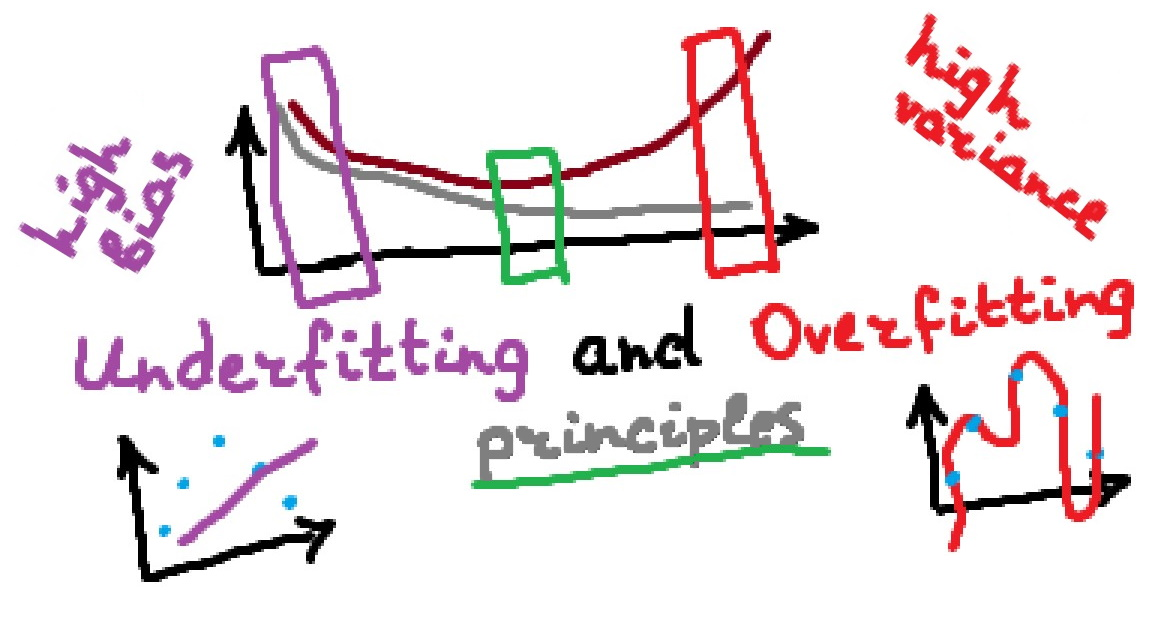
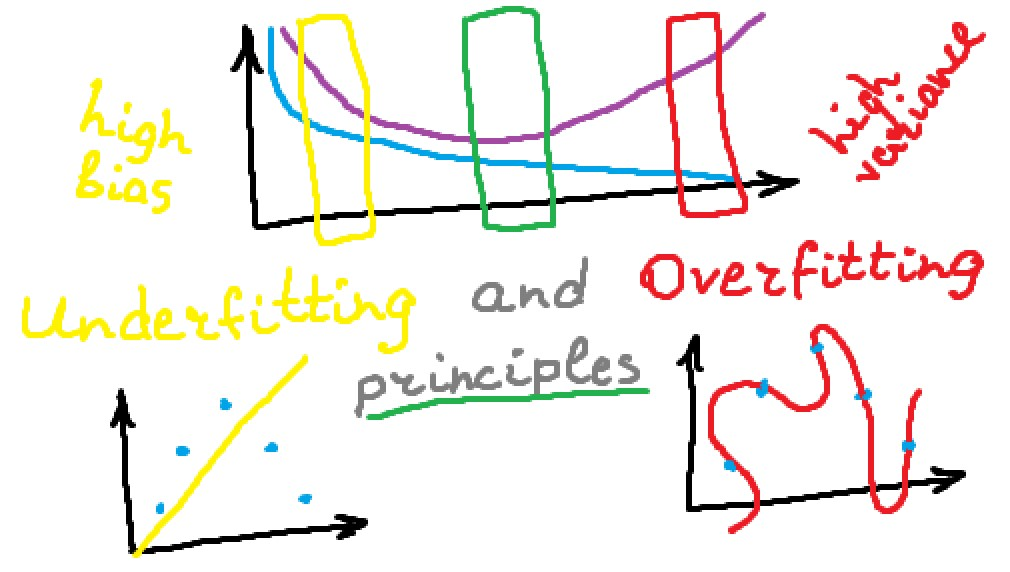
Update to a final version

Changed region(s): [[0.0, 0.0, 0.9822, 0.9808]]

diff --git a/principles.md b/principles.md
@@ -1,13 +1,13 @@
 # Overfitting and Underfitting principles
 ## Understand what it is and why you should use particular techniques to prevent this
 
-A lot of articles have been written about overfitting, but almost all of them *are simply a list of tools*. "How to handle overfitting - top 10 tools" or "best techniques to prevent overfitting". *It's like being shown nails without explaining how to hammer them*. It can be very confusing for people who are trying to figure out how overfitting works. Also, these articles often do not consider underfitting, as if it does not exist at all.
+A lot of articles have been written about overfitting, but almost all of them *are simply a list of tools*. "Top 10 tools to fight overfitting you should know" or "Best techniques to combat overfitting". *It's like being shown nails without explaining how to hammer them*. It can be very confusing for people who are trying to figure out how overfitting works. Also, these articles often do not consider underfitting, as if it does not exist at all.
 
 In this article, I would like to list the **basic principles** (exactly *principles*) for improving the quality of your model and, accordingly, preventing underfitting and overfitting on a particular example. This is a very general issue that can apply to all algorithms and models, so it is very difficult to fully describe it. But I want to try to give you an *understanding* of why underfitting and overfitting occur and why one or another particular technique should be used.
 
 ## Underfitting and Overfitting and Bias/Variance Trade-off
 
-Although I'm not describing all the concepts you need to know here (for example, *quality metrics* or *cross-validation*), I think it's important to explain to you what underfitting/overfitting is.
+Although I'm not describing all the concepts you need to know here (for example, *quality metrics* or *cross-validation*), I think it's important to explain to you (or just remind you) what underfitting/overfitting is.
 
 To figure this out, let's create some dataset, split it into train and test (I will not use a validation set in this example to simplify it, but I will tell about it later), and then train three models on it - simple, good and complex. All code is available in this [GitLab repo](https://gitlab.com/Winston-90/underfitting_vs_overfitting).
 
@@ -35,7 +35,7 @@ These are two extremes of the same problem and the optimal solution always lies 
 |:--:|
 | <b>Good model. The cubic model trained on cubic data. Image by Author</b>|
 
-I will not talk much about bias/variance trade-off, you can read the basics [in this article](https://towardsdatascience.com/understanding-the-bias-variance-tradeoff-165e6942b229). But let me briefly mention possible options:
+I will not talk much about bias/variance trade-off (you can read the basics [in this article](https://towardsdatascience.com/understanding-the-bias-variance-tradeoff-165e6942b229)), but let me briefly mention possible options:
 - low bias, low variance - is a good result, just right.
 - low bias, **high variance** - **overfitting** - the algorithm outputs very different predictions for similar data.
 - **high bias**, low variance - **underfitting** - the algorithm outputs similar predictions for similar data, but predictions are wrong (algorithm "miss").
@@ -82,31 +82,31 @@ As we remember:
 - **overfitting** occurs when your model is **too complex** for your data.
 
 Based on this, simple intuition you should keep in mind is:
-- to prevent **underfitting**, you should **complicate** the model.
-- to prevent **overfitting**, you should **simplify** the model.
+- to fix **underfitting**, you should **complicate** the model.
+- to fix **overfitting**, you should **simplify** the model.
 
-In fact, everything that will be listed below is only the consequence of this simple rule. I will try to show why certain actions complicate or simplify the model.
+In fact, everything that will be listed below is only the consequence of this simple rule. I will try to show why certain actions will complicate or simplify the model.
 
 ### More Simple / Complex Model
 
 The easiest way that comes to mind based on the intuition above is to try a more simple or more complex algorithm (model).
 
-To complicate the model, you need to add more parameters (*degrees of freedom*). Sometimes this means to directly try a more powerful model - one that is a priori capable of restoring more complex dependencies (SVM with different kernels instead of logistic regression). If the algorithm is already quite complex (neural network or some ensemble model), you need to add more parameters to it, for example, increase the number of models in boosting. In the context of neural networks, this means adding more layers / more neurons in each layer / more connections between layers / more filters for CNN, and so on.
+To complicate the model, you need to add more parameters (*degrees of freedom*). Sometimes this means to directly try a more powerful model - one that is a priori capable of restoring more complex dependencies (*SVM with different kernels instead of logistic regression*). **If the algorithm is already quite complex** (neural network or some ensemble model), **you need to add more parameters** to it, for example, increase the number of models in boosting. In the context of neural networks, this means adding more layers / more neurons in each layer / more connections between layers / more filters for CNN, and so on.
 
-To simplify the model, you need contrariwise to reduce the number of parameters. Either completely change the algorithm (try random forest instead of deep neural network), or reduce the number of degrees of freedom. Fewer layers, fewer neurons, and so on.
+To simplify the model, you need contrariwise to reduce the number of parameters. Either completely change the algorithm (*try random forest instead of deep neural network*), or reduce the number of degrees of freedom. Fewer layers, fewer neurons, and so on.
 
 ### More Regularization / Less Regularization
 
-This point is very closely related to the previous one. Regularization is basically an *indirect forced simplification of the model*. The regularization term requires the model to keep parameters values as small as possible, so requires the model to be as simple as possible. Complex models with strong regularization often perform better than initially simple models, so this is a very powerful tool.
+This point is very closely related to the previous one. In fact, **regularization is an indirect and forced simplification of the model**. The regularization term requires the model to keep parameters values as small as possible, so requires the model to be as simple as possible. Complex models with strong regularization often perform better than initially simple models, so this is a very powerful tool.
 
 | ![regularization.jpg](./img/regularization.jpg) |
 |:--:|
-| <b>Good model and complex model with L2 regularization. Image by Author</b>|
+| <b>Good model and complex model with regularization. Image by Author</b>|
 
-More regularization (simplifying the model) means to increase the impact of the *regularization term*. This process is strictly individual - depending on the algorithm, the regularization parameters are different (for example, **to reduce the regularization, the alpha for Ridge regression should be decreased, and C for SVM - increased**). So you should study the parameters of the algorithm and pay attention to whether they should be increased or decreased in a particular situation. There are a lot of such parameters - L1/L2 coefficients for linear regression, C and gamma for SVM, maximum tree depth, and so on. In the context of neural networks, the main regularization methods are:
-- Early stopping
-- Dropout
-- L1 and L2 Regularization
+More regularization (simplifying the model) means increasing the impact of the *regularization term*. This process is strictly individual - depending on the algorithm, the regularization parameters are different (for example, **to reduce the regularization, the alpha for Ridge regression should be decreased, and C for SVM - increased**). So you should study the parameters of the algorithm and pay attention to whether they should be increased or decreased in a particular situation. There are a lot of such parameters - L1/L2 coefficients for linear regression, C and gamma for SVM, maximum tree depth for decision trees, and so on. In the context of neural networks, the main regularization methods are:
+- Early stopping,
+- Dropout,
+- L1 and L2 Regularization.
 
 You can read about them [in this article](https://medium.com/@ODSC/classic-regularization-techniques-in-neural-networks-68bccee03764).
 
@@ -116,18 +116,18 @@ Opposite, in the case when the model needs to be complicated, you should reduce 
 
 This may not be so obvious, but adding new features also complicates the model. Think about it in the context of a *polynomial regression* - adding quadratic features to a dataset allows a linear model to recover quadratic data.
 
-*"Natural" feature obtaining* (if you can call it that) - obtaining new features for existing data is used infrequently, mainly due to the fact that it is very expensive and long. But you can keep in mind that sometimes this can help.
+*Adding new "natural" features* (if you can call it that) - obtaining new features for existing data is used infrequently, mainly due to the fact that it is very expensive and long. But you can keep in mind that sometimes this can help.
 
-But artificial obtaining of additional features from existing ones (the so-called *feature engineering*) is used quite often for classical machine learning models. There are as many examples of such transformations as you can imagine, but here are the main ones.:
-- polynomial features - from x1, x2 to x1, x2, x1*x2, x1^2, x2^2 (`sklearn.preprocessing.PolynomialFeatures` class)
+But artificial obtaining of additional features from existing ones (the so-called *feature engineering*) is used quite often for classical machine learning models. There are as many examples of such transformations as you can imagine, but here are the main ones:
+- polynomial features - from *x1, x2* to *x1, x2, x1x2, x1^2, x2^2* (`sklearn.preprocessing.PolynomialFeatures` class)
 - log(x), for data with not-normal distribution
 - ln(|x| + 1) for data with heavy right tail
 - transformation of categorical features 
 - other non-linear data transformation (from length and width to area (length*width)) and so on.
 
-If you need to simplify the model, then you should use a smaller quantity of features. First of all, remove all the additional features that you added earlier if you did so. But it may turn out that in the original dataset there are features that do not carry useful information, and sometimes violate the algorithm. Linear models often work worse if some features are dependent - *highly correlated*. In this case, you need to use *feature selection* approaches to select only those features that carry the maximum amount of useful information.
+If you need to simplify the model, then you should use a smaller quantity of features. First of all, remove all the additional features that you added earlier if you did so. But it may turn out that in the original dataset there are features that do not carry useful information, and sometimes cause problems. Linear models often work worse if some features are dependent - *highly correlated*. In this case, you need to use *feature selection* approaches to select only those features that carry the maximum amount of useful information.
 
-It is worthwhile to say that in the context of neural networks, feature engineering makes almost no sense because the network finds dependencies in the data itself. This is actually why deep neural networks can restore such complex dependencies.
+It is worthwhile to say that in the context of neural networks, *feature engineering* and *feature selection* make almost no sense because the network finds dependencies in the data itself. This is actually why deep neural networks can restore such complex dependencies.
 
 ### Why Getting More Data Sometimes Can't Help
 
@@ -141,9 +141,9 @@ A very simple model (degree 1) has remained simple, almost nothing has changed. 
 
 But the complex model (degree 13) has changed for the better. It is still worse than the initially good model (degree 3), but much better than the original one. Why did this happen?
 
-Last time (for the initial dataset), the model was trained on 14 points (*20 (initial dataset size) * 0.7 (train ratio) = 14 data points*). A 13-degree polynomial can perfectly match these data (by analogy, we can draw an ideal straight line (degree = 1) through 2 points, an ideal parabola (degree = 2) through 3 points - and so on). By getting 10 times more data, the size of our train set is now 140 data points. To perfectly match these data, we need a 139-degree polynomial!
+Last time (for the initial dataset), the model was trained on 14 data points (*20 (initial dataset size) * 0.7 (train ratio) = 14*). A 13-degree polynomial can perfectly match these data (by analogy, we can draw an ideal straight line (degree=1) through 2 points, an ideal parabola (degree=2) through 3 points, and so on). By getting 10 times more data, the size of our train set is now 140 data points. To perfectly match these data, we need a 139-degree polynomial!
 
-Note that if we had initially trained a *VERY complex model* (for example, 150-degree polynomial), such an increase in data would not have helped. So get more data is a good way to improve the quality of the model, but it may not help if the model is very very complex.
+Note, that if we had initially trained a *VERY complex model* (for example, 150-degree polynomial), such an increase in data would not have helped. So get more data is a good way to improve the quality of the model, but it may not help if the model is very very complex.
 
 So, the conclusion is - **getting more data can help only with overfitting (not underfitting) and if your model is not TOO complex**. 
 
@@ -153,20 +153,20 @@ In the context of computer vision, getting more data can also mean *[data augmen
 
 Let's summarize everything in one table. 
 
-| ![summary_table.jpg](./img/summary_table.jpg) |
+| ![summary_table.png](./img/summary_table.png) |
 |:--:|
-| <b>Techniques to fight overfitting. Image by Author</b>|
+| <b>Techniques to fight underfitting and overfitting. Image by Author</b>|
 
 Well, better in two.
 
-| ![summary_table_extended.jpg](./img/summary_table_extended.jpg) |
+| ![summary_table_extended.png](./img/summary_table_extended.png) |
 |:--:|
-| <b>Techniques to fight overfitting (extended). Image by Author</b>|
-
-Based on the results of the quality analysis, it is very important to understand exactly where to move and what to pay attention to. Otherwise, you can spend days and weeks of work on improving the part of the model that will not give a large boost in total quality.
-
-You may notice that to eliminate underfitting and overfitting, you need to apply **diametrically opposite actions**. So if you initially "misdiagnosed" your model, you can spend a lot of time and money on empty work (for example, getting new data when in fact you need to complicate the model).
-
-In addition to analyzing the quality of the model, there are many techniques for understanding exactly what needs to be done to improve the model ([error analysis](https://www.analyticsvidhya.com/blog/2021/08/a-quick-guide-to-error-analysis-for-machine-learning-classification-models/), [ceiling analysis](https://www.coursera.org/lecture/machine-learning/ceiling-analysis-what-part-of-the-pipeline-to-work-on-next-LrJbq), etc.). Unfortunately, this topic is beyond the scope of this article.
+| <b>Techniques to fight underfitting and overfitting (extended). Image by Author</b>|
 
 Some tools and techniques have not been covered in this article. For example, I consider **data cleaning** and **cross-validation or hold-out validation** to be common practices in any machine learning project, but they can also be considered as tools to combat overfitting.
+
+You may notice that to eliminate underfitting or overfitting, you need to apply **diametrically opposite actions**. So if you initially "misdiagnosed" your model, you can spend a lot of time and money on empty work (for example, getting new data when in fact you need to complicate the model). That's why it is so important - hours of analysis can save your days and weeks of work.
+
+In addition to the usual analysis of the model quality (train/test errors), there are many techniques for understanding exactly what needs to be done to improve the model ([error analysis](https://www.analyticsvidhya.com/blog/2021/08/a-quick-guide-to-error-analysis-for-machine-learning-classification-models/), [ceiling analysis](https://www.coursera.org/lecture/machine-learning/ceiling-analysis-what-part-of-the-pipeline-to-work-on-next-LrJbq), etc.). Unfortunately, this topic is beyond the scope of this article. 
+
+However, all these procedures have the purpose of understanding where to move and what to pay attention to. I hope this article helps you to understand the basic principles of underfitting and overfitting and motivate you to learn more about them.
